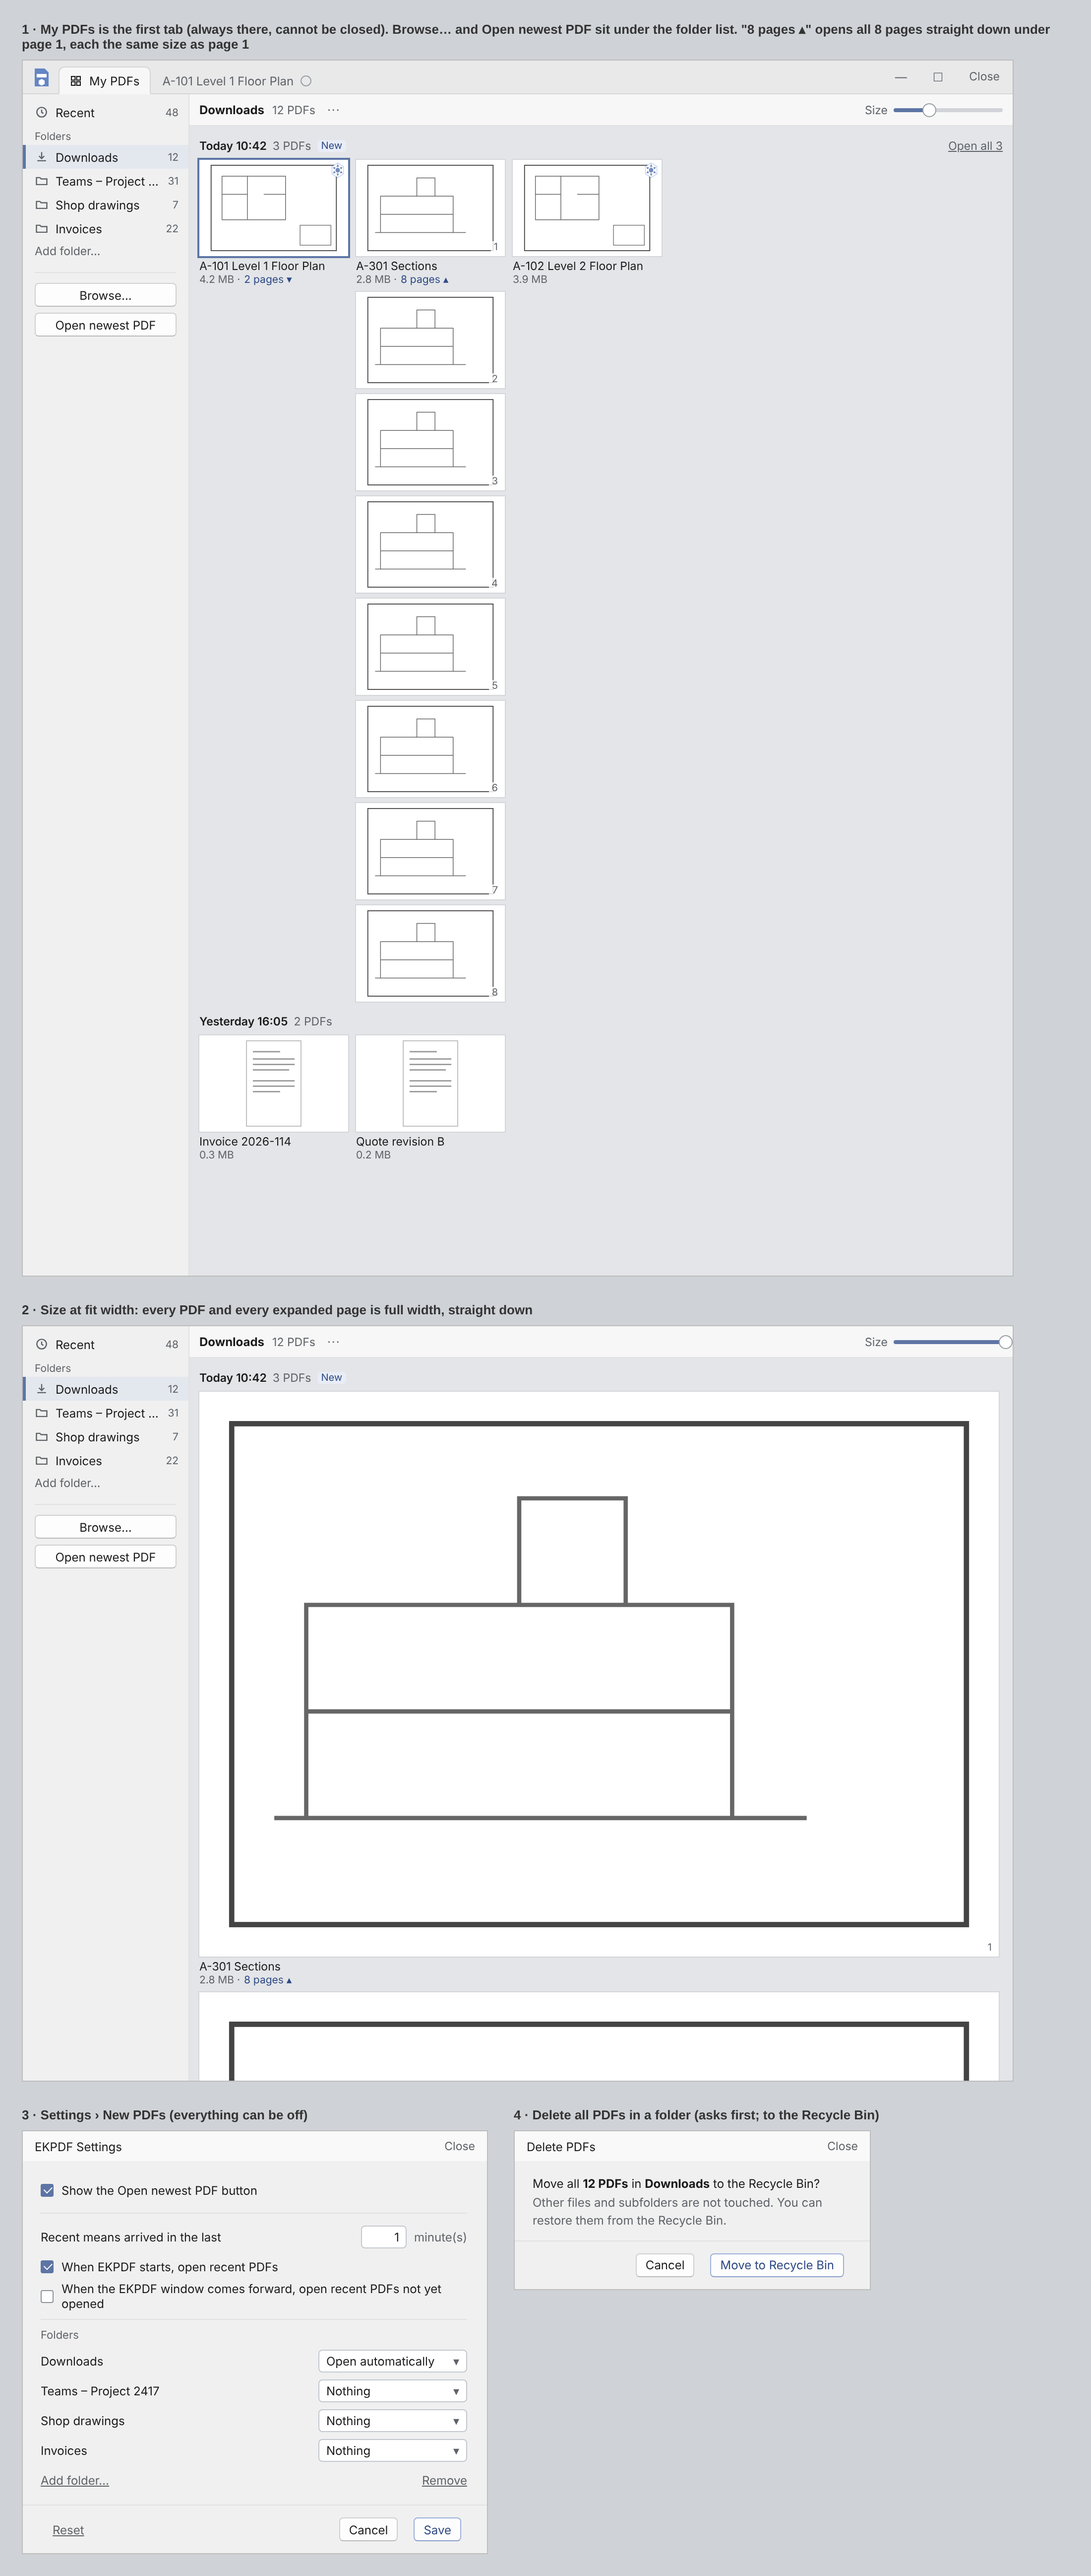
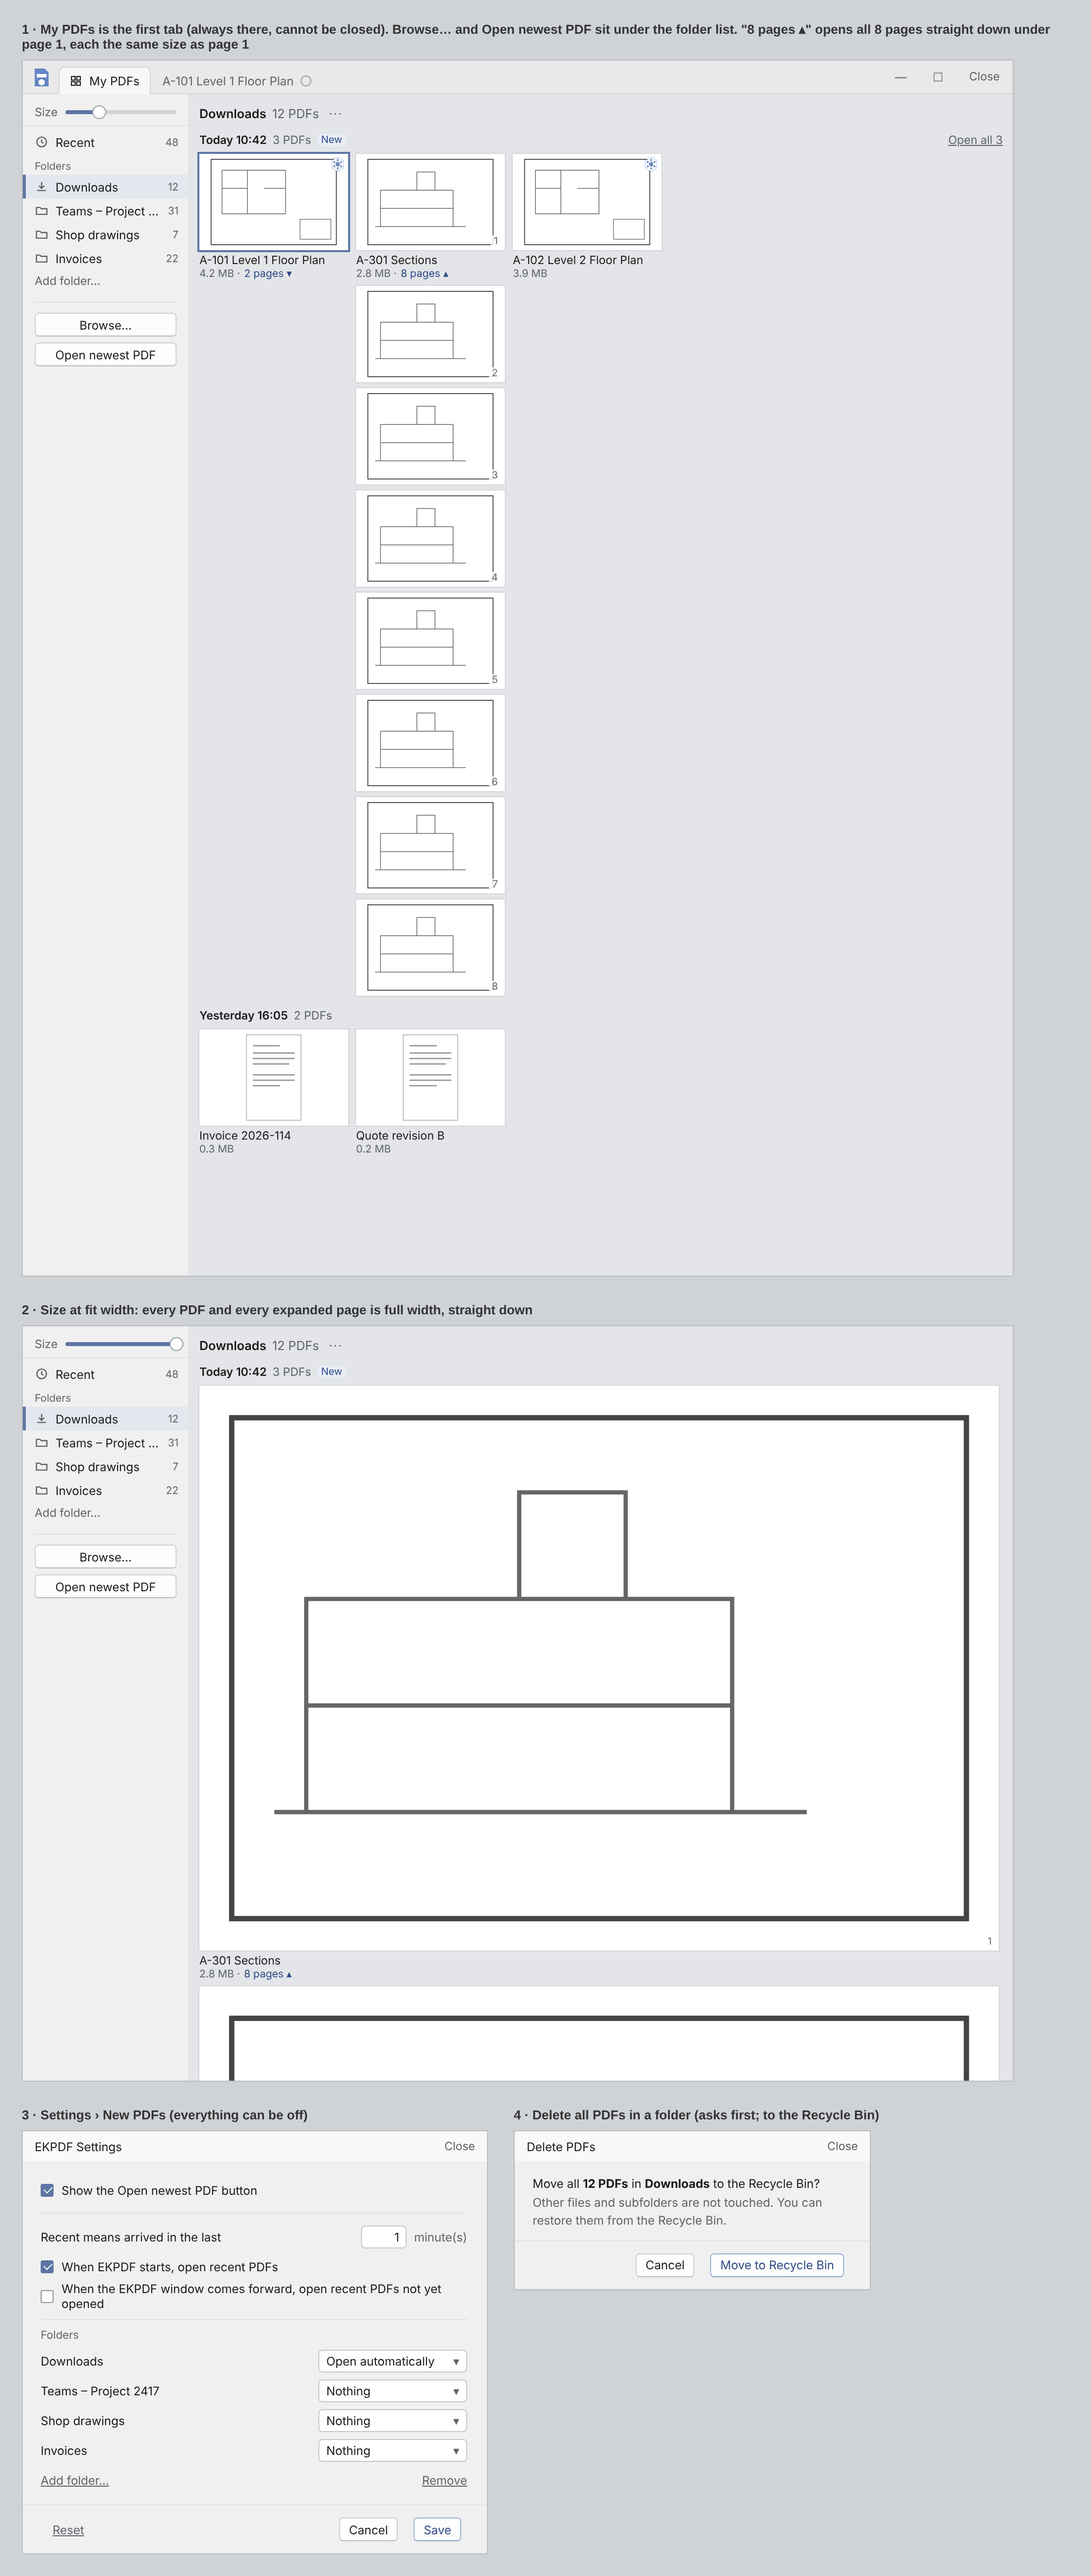
My PDFs mockup: Size slider at top of the sidebar; top bar removed
Claude-Session: https://claude.ai/code/session_01N3DjppHZ7MgzVDBG7VuKSR

diff --git a/docs/mockups/library.html b/docs/mockups/library.html
@@ -87,6 +87,7 @@
   <div class="tt">A-101 Level 1 Floor Plan<span class="x"></span></div>
   <div class="win-btns"><span>—</span><span>☐</span><span style="font-size:11.5px">Close</span></div></div>
  <div class="c-body" style="height:1190px"><div class="c-side">
+   <div style="display:flex;align-items:center;gap:8px;height:28px;padding:0 12px;margin:-2px 0 4px;border-bottom:1px solid #e1e1e1;color:#5f6368;font-size:11.5px">Size<div class="slider" style="flex:1"><div class="t" style="width:100%"><i style="width:30%"></i><b style="left:calc(30% - 7px)"></b></div></div></div>
    <div class="f"><svg><use href="#clock"/></svg>Recent<span class="n">48</span></div>
    <div class="h">Folders</div>
    <div class="f on"><svg><use href="#dl"/></svg>Downloads<span class="n">12</span></div>
@@ -95,9 +96,9 @@
    <div class="f"><svg><use href="#fold"/></svg>Invoices<span class="n">22</span></div>
    <div class="add">Add folder…</div>
    <div style="margin:10px 12px 0;padding-top:10px;border-top:1px solid #e1e1e1;display:flex;flex-direction:column;gap:6px"><div class="btn" style="height:24px;justify-content:center">Browse…</div><div class="btn" style="height:24px;justify-content:center">Open newest PDF</div></div></div>
-  <div class="c-main"><div class="c-top"><b>Downloads</b><span class="sec" style="font-size:11.5px">12 PDFs</span><span class="dots">···</span><div style="flex:1"></div>
-    <div class="slider" style="font-size:11.5px">Size<div class="t" style="width:110px"><i style="width:30%"></i><b style="left:26%"></b></div></div></div>
+  <div class="c-main">
    <div class="c-list">
+    <div class="c-bh" style="height:24px;margin:0 0 4px;font-size:12.5px"><b>Downloads</b>12 PDFs<span class="dots">···</span></div>
     <div class="c-bh"><b>Today 10:42</b>3 PDFs<span class="new">New</span><div style="flex:1"></div><span class="link" style="font-size:11.5px">Open all 3</span></div>
     <div class="k-grid"><div class="k-card sel" style="width:150px"><div class="thumb" style="height:97px"><svg width="150" height="97" viewBox="0 0 150 106" preserveAspectRatio="xMidYMid meet"><use href="#plan"/></svg><img class=badge src=clickto3d-256.png></div><div class="nm">A-101 Level 1 Floor Plan</div><div class="m">4.2 MB · <span class="pages">2 pages ▾</span></div></div><div class="k-card" style="width:150px"><div class="thumb" style="height:97px"><svg width="150" height="97" viewBox="0 0 150 106" preserveAspectRatio="xMidYMid meet"><use href="#sec"/></svg><span class="no">1</span></div><div class="nm">A-301 Sections</div><div class="m">2.8 MB · <span class="pages">8 pages ▴</span></div><div class="pg"><div class="thumb" style="height:97px"><svg width="150" height="97" viewBox="0 0 150 106" preserveAspectRatio="xMidYMid meet"><use href="#sec"/></svg><span class="no">2</span></div></div><div class="pg"><div class="thumb" style="height:97px"><svg width="150" height="97" viewBox="0 0 150 106" preserveAspectRatio="xMidYMid meet"><use href="#sec"/></svg><span class="no">3</span></div></div><div class="pg"><div class="thumb" style="height:97px"><svg width="150" height="97" viewBox="0 0 150 106" preserveAspectRatio="xMidYMid meet"><use href="#sec"/></svg><span class="no">4</span></div></div><div class="pg"><div class="thumb" style="height:97px"><svg width="150" height="97" viewBox="0 0 150 106" preserveAspectRatio="xMidYMid meet"><use href="#sec"/></svg><span class="no">5</span></div></div><div class="pg"><div class="thumb" style="height:97px"><svg width="150" height="97" viewBox="0 0 150 106" preserveAspectRatio="xMidYMid meet"><use href="#sec"/></svg><span class="no">6</span></div></div><div class="pg"><div class="thumb" style="height:97px"><svg width="150" height="97" viewBox="0 0 150 106" preserveAspectRatio="xMidYMid meet"><use href="#sec"/></svg><span class="no">7</span></div></div><div class="pg"><div class="thumb" style="height:97px"><svg width="150" height="97" viewBox="0 0 150 106" preserveAspectRatio="xMidYMid meet"><use href="#sec"/></svg><span class="no">8</span></div></div></div><div class="k-card" style="width:150px"><div class="thumb" style="height:97px"><svg width="150" height="97" viewBox="0 0 150 106" preserveAspectRatio="xMidYMid meet"><use href="#plan"/></svg><img class=badge src=clickto3d-256.png></div><div class="nm">A-102 Level 2 Floor Plan</div><div class="m">3.9 MB</div></div></div>
     <div class="c-bh"><b>Yesterday 16:05</b>2 PDFs</div>
@@ -106,6 +107,7 @@
 <div><div class="cap">2 · Size at fit width: every PDF and every expanded page is full width, straight down</div>
 <div class="win" style="width:1000px">
  <div class="c-body" style="height:760px"><div class="c-side">
+   <div style="display:flex;align-items:center;gap:8px;height:28px;padding:0 12px;margin:-2px 0 4px;border-bottom:1px solid #e1e1e1;color:#5f6368;font-size:11.5px">Size<div class="slider" style="flex:1"><div class="t" style="width:100%"><i style="width:100%"></i><b style="left:calc(100% - 7px)"></b></div></div></div>
    <div class="f"><svg><use href="#clock"/></svg>Recent<span class="n">48</span></div>
    <div class="h">Folders</div>
    <div class="f on"><svg><use href="#dl"/></svg>Downloads<span class="n">12</span></div>
@@ -114,9 +116,9 @@
    <div class="f"><svg><use href="#fold"/></svg>Invoices<span class="n">22</span></div>
    <div class="add">Add folder…</div>
    <div style="margin:10px 12px 0;padding-top:10px;border-top:1px solid #e1e1e1;display:flex;flex-direction:column;gap:6px"><div class="btn" style="height:24px;justify-content:center">Browse…</div><div class="btn" style="height:24px;justify-content:center">Open newest PDF</div></div></div>
-  <div class="c-main"><div class="c-top"><b>Downloads</b><span class="sec" style="font-size:11.5px">12 PDFs</span><span class="dots">···</span><div style="flex:1"></div>
-    <div class="slider" style="font-size:11.5px">Size<div class="t" style="width:110px"><i style="width:100%"></i><b style="left:96%"></b></div></div></div>
+  <div class="c-main">
    <div class="c-list">
+    <div class="c-bh" style="height:24px;margin:0 0 4px;font-size:12.5px"><b>Downloads</b>12 PDFs<span class="dots">···</span></div>
     <div class="c-bh"><b>Today 10:42</b>3 PDFs<span class="new">New</span></div>
     <div class="k-card" style="width:806px"><div class="thumb" style="height:569px"><svg width="806" height="569" viewBox="0 0 150 106" preserveAspectRatio="xMidYMid meet"><use href="#sec"/></svg><span class="no">1</span></div><div class="nm">A-301 Sections</div><div class="m">2.8 MB · <span class="pages">8 pages ▴</span></div><div class="pg"><div class="thumb" style="height:569px"><svg width="806" height="569" viewBox="0 0 150 106" preserveAspectRatio="xMidYMid meet"><use href="#sec"/></svg><span class="no">2</span></div></div><div class="pg"><div class="thumb" style="height:569px"><svg width="806" height="569" viewBox="0 0 150 106" preserveAspectRatio="xMidYMid meet"><use href="#sec"/></svg><span class="no">3</span></div></div></div>
    </div></div></div></div></div>
